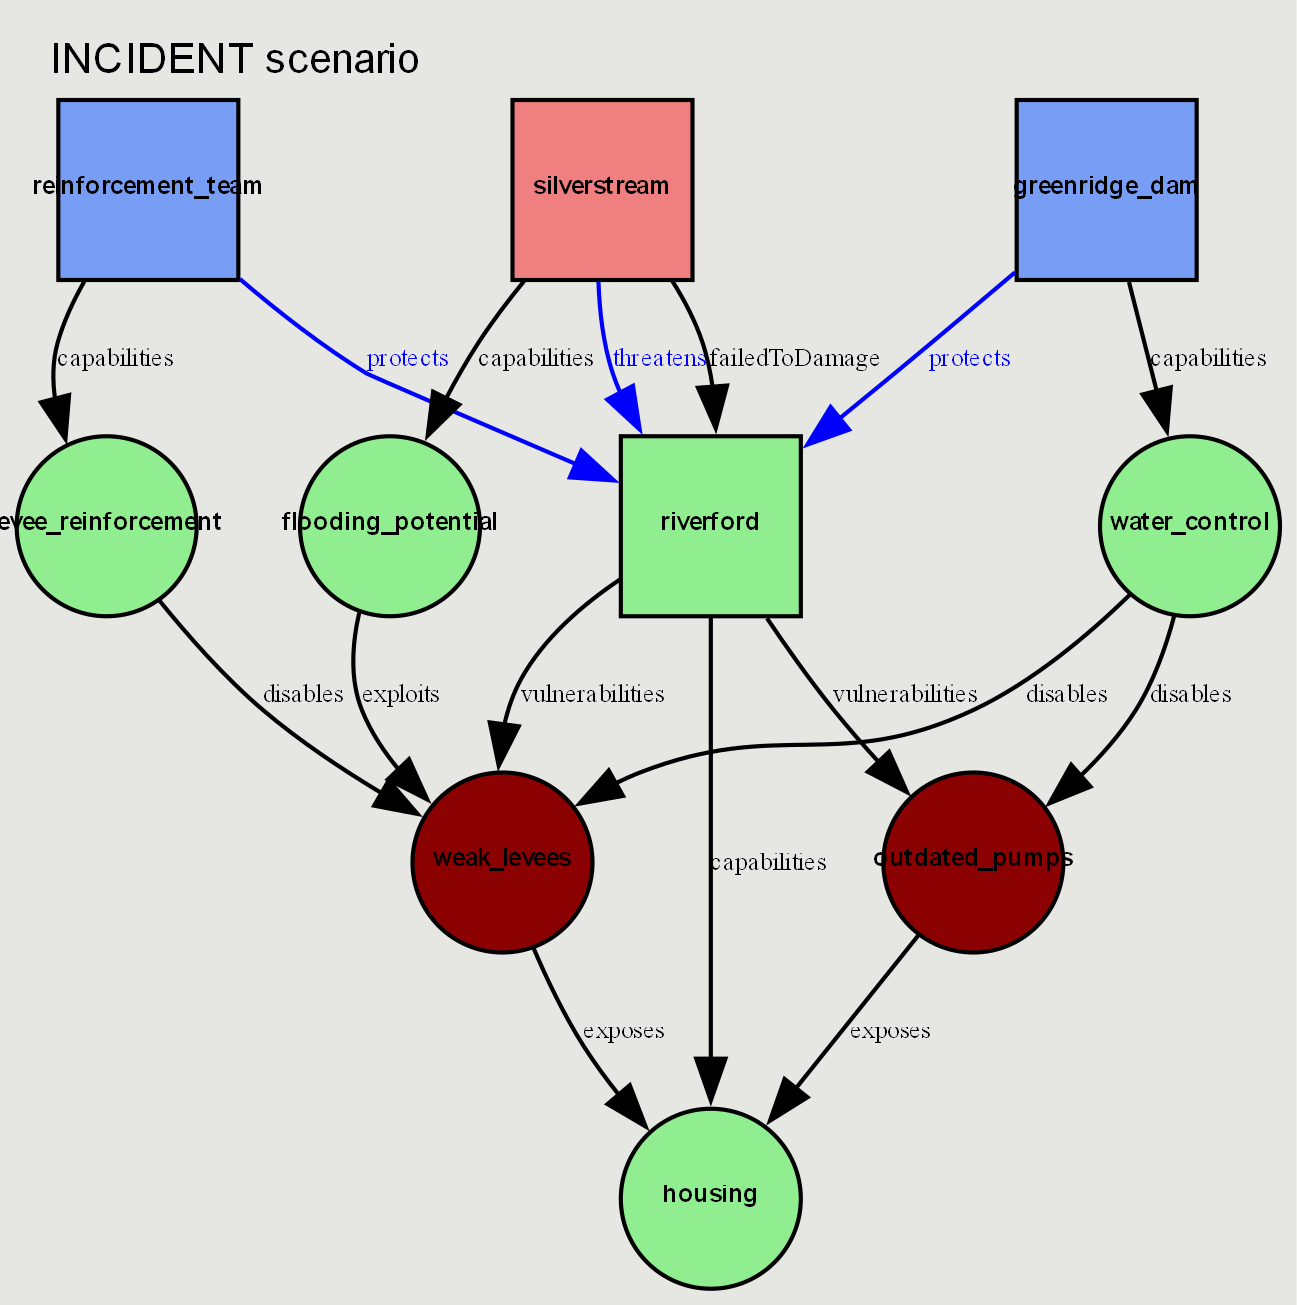
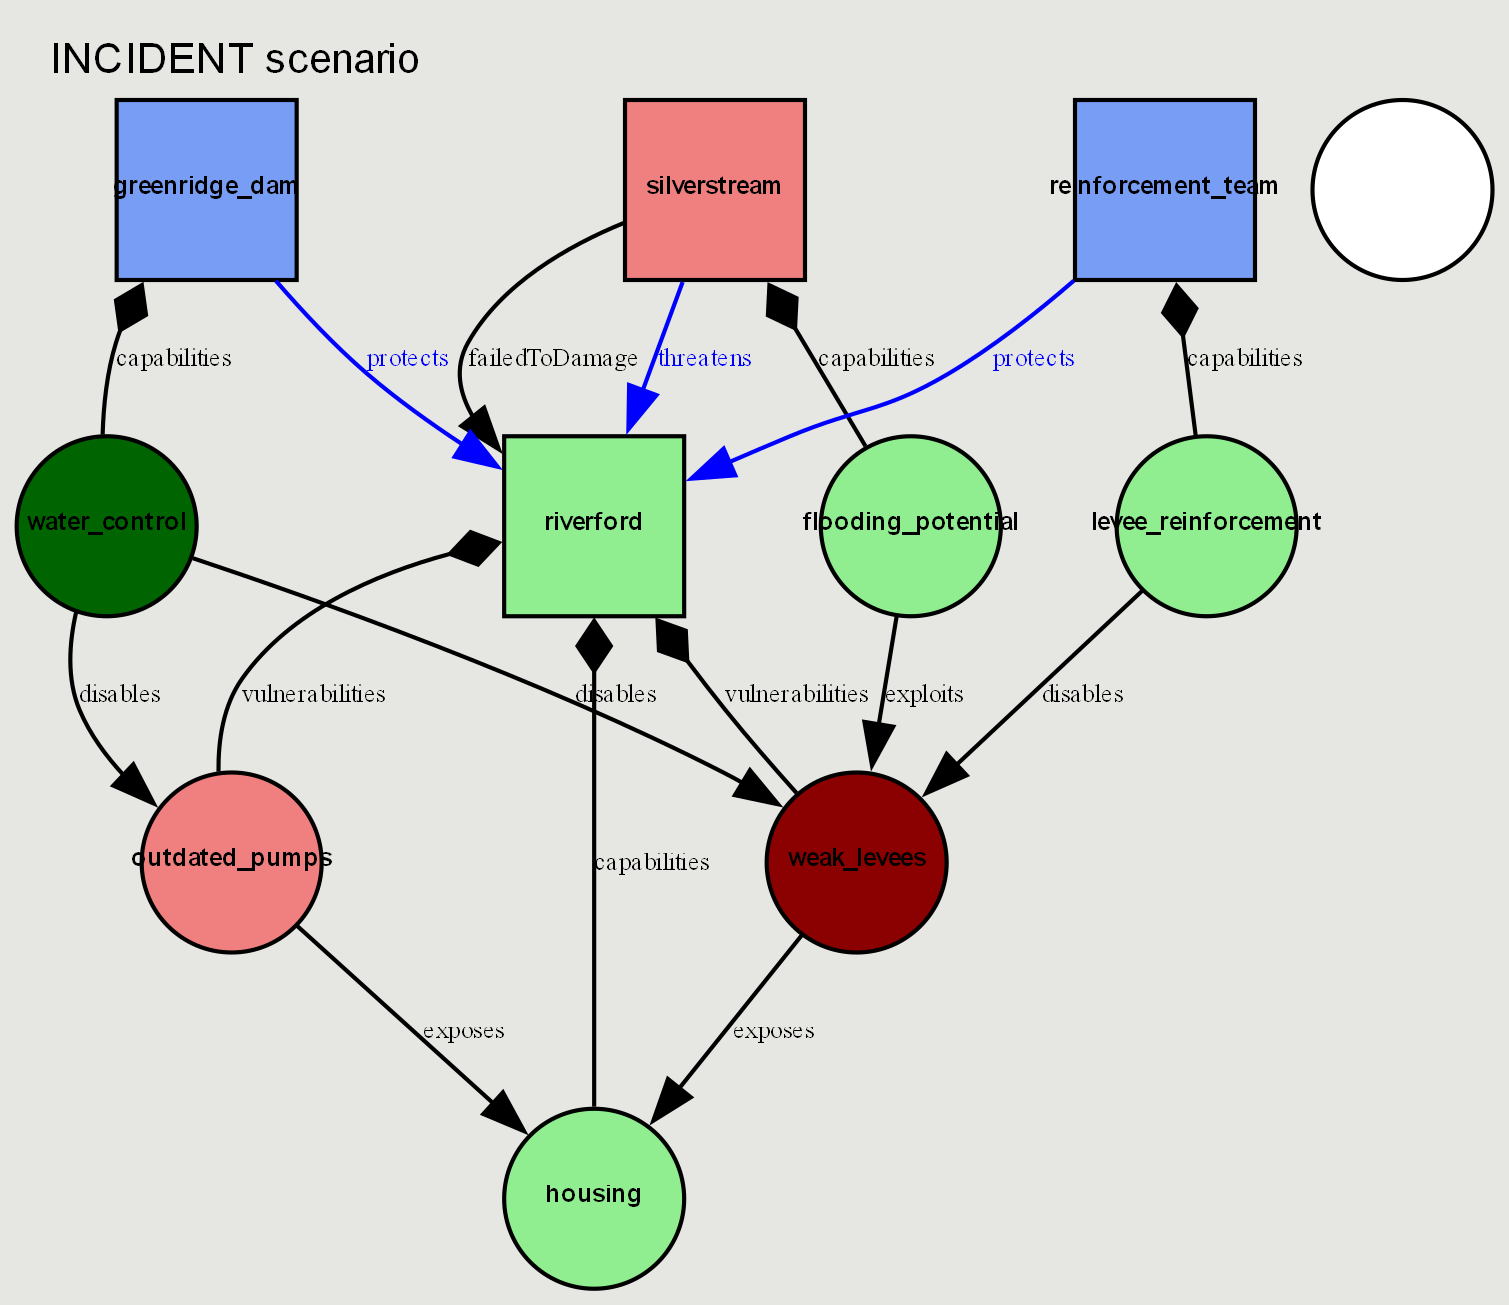
Visualization improved with representation of compositions.

diff --git a/laderr_engine/laderr_lib/services/visualization.py b/laderr_engine/laderr_lib/services/visualization.py
@@ -240,6 +240,9 @@ class GraphCreator:
         """
         Processes RDF relationships, assigns edge styles, and adds them to the Graphviz Digraph.
 
+        For edges with predicate in [capabilities, vulnerabilities, resiliences], the arrowhead on the **source end**
+        will be a diamond. Other edges retain their default style (normal arrow on target side).
+
         :param laderr_graph: RDFLib graph containing LaDeRR data.
         :type laderr_graph: Graph
         :param dot: Graphviz Digraph instance to which edges will be added.
@@ -247,9 +250,17 @@ class GraphCreator:
         :param added_nodes: Set of added node IDs to ensure valid edges.
         :type added_nodes: set
         """
+        edge_styles = {
+            "protects": "blue",
+            "inhibits": "blue",
+            "threatens": "blue",
+            "preserves": "orange",
+            "preservesAgainst": "orange",
+            "preservesDespite": "orange",
+            "sustains": "orange",
+        }
 
-        edge_styles = {"protects": "blue", "inhibits": "blue", "threatens": "blue", "preserves": "orange",
-                       "preservesAgainst": "orange", "preservesDespite": "orange", "sustains": "orange", }
+        diamond_source_edges = {"capabilities", "vulnerabilities", "resiliences"}
 
         for subject, predicate, obj in laderr_graph:
             subject_id = str(subject).split("#")[-1]
@@ -258,5 +269,12 @@ class GraphCreator:
 
             if subject_id in added_nodes and obj_id in added_nodes and subject_id != obj_id:
                 edge_color = edge_styles.get(predicate_label, "black")
-                dot.edge(subject_id, obj_id, label=predicate_label, fontsize="6", color=edge_color,
-                         fontcolor=edge_color)
+
+                if predicate_label in diamond_source_edges:
+                    # Edge with diamond at source end
+                    dot.edge(subject_id, obj_id, label=predicate_label, fontsize="6",
+                             color=edge_color, fontcolor=edge_color, arrowhead="none", arrowtail="diamond", dir="both")
+                else:
+                    # Normal edge (arrow at target end)
+                    dot.edge(subject_id, obj_id, label=predicate_label, fontsize="6",
+                             color=edge_color, fontcolor=edge_color)

diff --git a/laderr_engine/laderr_lib/services/validation.py b/laderr_engine/laderr_lib/services/validation.py
@@ -6,7 +6,6 @@ as well as SHACL validation of RDF graphs.
 """
 
 import os
-from urllib.parse import urlparse
 
 from loguru import logger
 from pyshacl import validate
@@ -22,6 +21,7 @@ class ValidationHandler:
     This class provides methods for validating RDF data against SHACL constraints, ensuring that LaDeRR
     specifications conform to syntactic and semantic requirements.
     """
+
     @staticmethod
     def validate_laderr_graph(laderr_graph: Graph) -> tuple[bool, str, Graph]:
         """
@@ -46,10 +46,6 @@ class ValidationHandler:
 
         conforms, report_graph, report_text = validate(data_graph=combined_graph, shacl_graph=shacl_graph,
                                                        inference="both", allow_infos=True, allow_warnings=True)
-
-        # VERBOSE OPTION
-        # conforms, report_graph, report_text = validate(data_graph=laderr_graph, shacl_graph=shacl_graph, inference="both",
-        #                                                allow_infos=True, allow_warnings=True, meta_shacl=True)
 
         ValidationHandler._report_validation_result(conforms, report_text)
 
@@ -112,9 +108,9 @@ class ValidationHandler:
         :type report_text: str
         """
         if conforms:
-            logger.success("The LaDeRR specification is correct.")
+            logger.success("The input LaDeRR specification is VALID.")
         else:
-            logger.error("The LaDeRR specification is invalid.")
+            logger.error("The input LaDeRR specification is INVALID.")
 
         # Print the full textual validation report
         VERBOSE and logger.info(f"Full Validation Report: {report_text}")

diff --git a/laderr_engine/tester.py b/laderr_engine/tester.py
@@ -30,8 +30,6 @@ if __name__ == "__main__":
     Laderr.save_laderr_graph(laderr_graph,
                              "C:\\Users\\FavatoBarcelosPP\\Dev\\laderr_engine\\manual_test_resources\\output_graph1.ttl")
 
-    exit(0)
-
     laderr_graph = Laderr.exec_inferences_ladder_graph(laderr_graph)
 
     replace_scenario(laderr_graph, 'incident')  # replace with 'operational', 'resilient', etc. as needed
